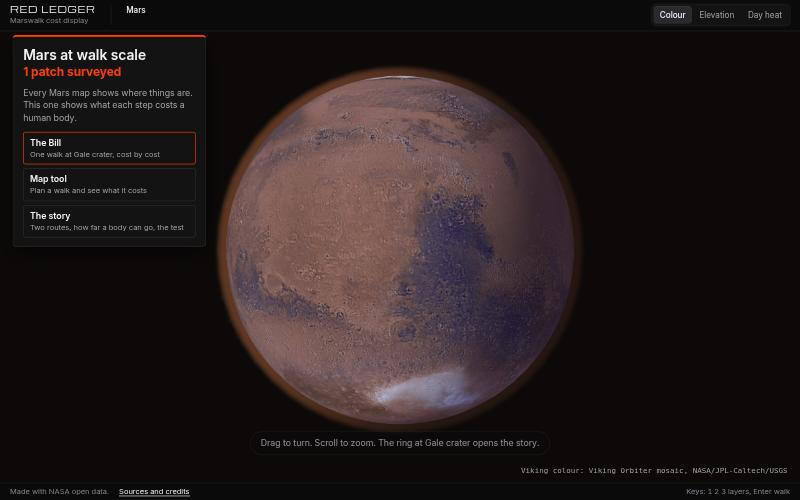
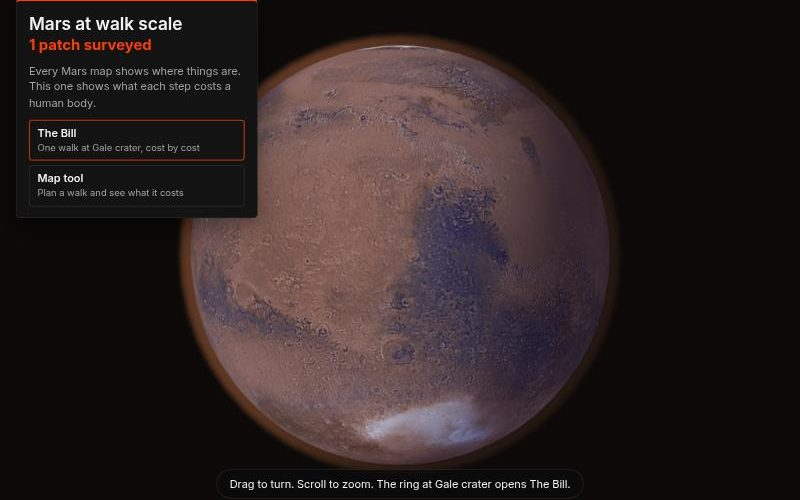
Front page: the globe opens The Bill and the map tool
The three main pages are the globe, The Bill and the map tool. The ring at
Gale crater opens The Bill. The story moves to 'More' in the page list.

diff --git a/index.html b/index.html
@@ -4,7 +4,7 @@
   <meta charset="utf-8">
   <meta name="viewport" content="width=device-width, initial-scale=1">
   <title>Red Ledger: Mars at walk scale</title>
-  <meta name="description" content="What one walk on Mars costs a human body. A globe of Mars with three ways in: The Bill, the map tool and the story. Made with NASA open data.">
+  <meta name="description" content="What one walk on Mars costs a human body. A globe of Mars that opens The Bill and the map tool. Made with NASA open data.">
   <link rel="stylesheet" href="css/hud.css">
   <link rel="stylesheet" href="css/globe.css">
 </head>
@@ -27,20 +27,19 @@
   <section class="intro" aria-label="About this globe">
     <h1><span class="intro-title">Mars at walk scale</span><strong id="intro-count">1 patch surveyed</strong></h1>
     <p>Every Mars map shows where things are. This one shows what each step costs a human body.</p>
-    <nav class="ways" aria-label="Three ways in">
+    <nav class="ways" aria-label="Two ways in">
       <a class="way" href="present-b.html"><b>The Bill</b><small>One walk at Gale crater, cost by cost</small></a>
       <a class="way" href="classic.html"><b>Map tool</b><small>Plan a walk and see what it costs</small></a>
-      <a class="way" href="story.html"><b>The story</b><small>Two routes, how far a body can go, the test</small></a>
     </nav>
   </section>
 
-  <a class="patch-ring" id="patch-ring" href="story.html" hidden aria-label="Walk Gale crater" tabindex="-1"></a>
+  <a class="patch-ring" id="patch-ring" href="present-b.html" hidden aria-label="Walk Gale crater" tabindex="-1"></a>
   <div class="patch-label" id="patch-label" hidden>
     <b>Gale crater</b>
     <small>Surveyed at walk scale</small>
   </div>
 
-  <p class="hint" id="hint">Drag to turn. Scroll to zoom. The ring at Gale crater opens the story.</p>
+  <p class="hint" id="hint">Drag to turn. Scroll to zoom. The ring at Gale crater opens The Bill.</p>
 
   <aside class="card" id="card" aria-label="Selected point" hidden>
     <button type="button" class="card-close" id="card-close" aria-label="Close">×</button>
@@ -50,7 +49,7 @@
   </aside>
 
   <p class="globe-credit" id="globe-credit"></p>
-  <p class="nogl" id="nogl" hidden>This page needs WebGL to draw the globe. <a href="story.html">Open the story</a> or <a href="classic.html">the map tool</a> instead.</p>
+  <p class="nogl" id="nogl" hidden>This page needs WebGL to draw the globe. <a href="present-b.html">Open The Bill</a> or <a href="classic.html">the map tool</a> instead.</p>
 
   <footer class="foot">
     <span>Made with NASA open data.</span>

diff --git a/js/globe.js b/js/globe.js
@@ -355,7 +355,7 @@ async function loadPatches() {
 /* Walk: ease the camera to the patch while the ring grows and fades, fade the
    page to the background colour, then open the walk page. */
 
-// `to` is the page to open: the story by default, or the door chosen.
+// `to` is the page to open: The Bill by default, or the way in chosen.
 function walk(to = null) {
   if (state.leaving) return;
   state.leaving = true;
@@ -364,9 +364,9 @@ function walk(to = null) {
   hideHint();
   // In recording mode the walk page is told to play its own sequence, so a
   // single take runs from the whole planet to the end of the walk.
-  // The ring and Enter open the story; a recording goes to the map tool,
+  // The ring and Enter open The Bill; a recording goes to the map tool,
   // which plays the filmed sequence.
-  const href = to ?? (RECORDING ? 'classic.html?rec=auto' : 'story.html');
+  const href = to ?? (RECORDING ? 'classic.html?rec=auto' : 'present-b.html');
   if (state.reduced) { location.href = href; return; }
   const t = facing(state.patches[0] ? state.patches[0].centre.lat : GALE.lat,
     state.patches[0] ? state.patches[0].centre.lon : GALE.lon);
@@ -381,8 +381,8 @@ function walk(to = null) {
   setTimeout(() => { location.href = href; }, GO_MS + 450);
 }
 
-// Three ways in beside the globe: The Bill, the map tool and the story. The
-// ring at the patch opens the story.
+// Two ways in beside the globe: The Bill and the map tool. The ring at the
+// patch opens The Bill.
 for (const el of [$('patch-ring'), ...document.querySelectorAll('.way')]) {
   el.addEventListener('click', (e) => {
     if (e.ctrlKey || e.metaKey || e.shiftKey || e.button !== 0) return;

diff --git a/links.html b/links.html
@@ -4,7 +4,7 @@
   <meta charset="utf-8">
   <meta name="viewport" content="width=device-width, initial-scale=1">
   <title>Red Ledger: pages</title>
-  <meta name="description" content="The pages of Red Ledger in one list: the globe, The Bill, the map tool and the story. Made with NASA open data.">
+  <meta name="description" content="The pages of Red Ledger in one list: the globe, The Bill and the map tool first. Made with NASA open data.">
   <meta name="theme-color" content="#0a0a0b">
   <link rel="icon" href="data:,">
   <style>
@@ -33,15 +33,15 @@
     <h1>Pages</h1>
     <p class="lead">Every Mars map shows where things are. This one shows what each step costs a human body.</p>
 
-    <h2>Start here</h2>
+    <h2>The three main pages</h2>
     <ul>
       <li><a href="index.html"><b>The globe</b><small>The front page. Mars, with the patch at Gale crater that is surveyed at walk scale.</small></a></li>
-    </ul>
-
-    <h2>Three ways in</h2>
-    <ul>
       <li><a href="present-b.html"><b>The Bill</b><small>One walk at Gale crater as a bill, cost by cost.</small></a></li>
       <li><a href="classic.html"><b>Map tool</b><small>Four ready-made walks or your own, seven layers, the 3D view, the suit-cooling slider.</small></a></li>
+    </ul>
+
+    <h2>More</h2>
+    <ul>
       <li><a href="story.html"><b>The story</b><small>The two routes, how far a body can go, and the test against NASA's measurements.</small></a></li>
     </ul>
 

diff --git a/css/globe.css b/css/globe.css
@@ -19,7 +19,7 @@
 .intro h1 { margin: 0 0 10px; font: 600 22px/1.2 var(--sans); color: var(--text); }
 .intro h1 strong { display: block; margin-top: 4px; font-size: 19px; font-weight: 700; color: var(--red); }
 .intro p { margin: 0; font-size: 14px; line-height: 1.45; color: var(--dim); }
-/* The three ways in. The first is the one to open first. */
+/* The ways in beside the globe. The first is the one to open first. */
 .ways { display: grid; gap: 6px; margin-top: 12px; }
 .way { display: block; padding: 8px 10px; color: var(--text); text-decoration: none; border: 1px solid var(--line); border-radius: 4px; }
 .way:first-child { border-color: var(--red); }

diff --git a/README.md b/README.md
@@ -2,13 +2,15 @@
 
 **Every Mars map shows where things are. This one shows what each step costs a human body.**
 
-**Try it:** https://red-ledger-mars.github.io/red-ledger/ opens on Mars, with three ways in. Nothing to install.
+**Try it:** https://red-ledger-mars.github.io/red-ledger/ opens on Mars. Nothing to install. The three main pages:
 
+- **The globe:** the front page. https://red-ledger-mars.github.io/red-ledger/
 - **The Bill:** one walk, cost by cost. https://red-ledger-mars.github.io/red-ledger/present-b.html
 - **Map tool:** plan a walk and see what it costs. https://red-ledger-mars.github.io/red-ledger/classic.html
-- **The story:** the two routes, how far a body can go, the test. https://red-ledger-mars.github.io/red-ledger/story.html
 
-[![The front page: a globe of Mars with three ways in](img/readme/front-page.jpg)](https://red-ledger-mars.github.io/red-ledger/)
+Also: the story (the two routes, how far a body can go, the test), https://red-ledger-mars.github.io/red-ledger/story.html
+
+[![The front page: a globe of Mars that opens The Bill and the map tool](img/readme/front-page.jpg)](https://red-ledger-mars.github.io/red-ledger/)
 
 | The Bill | Map tool |
 |---|---|
